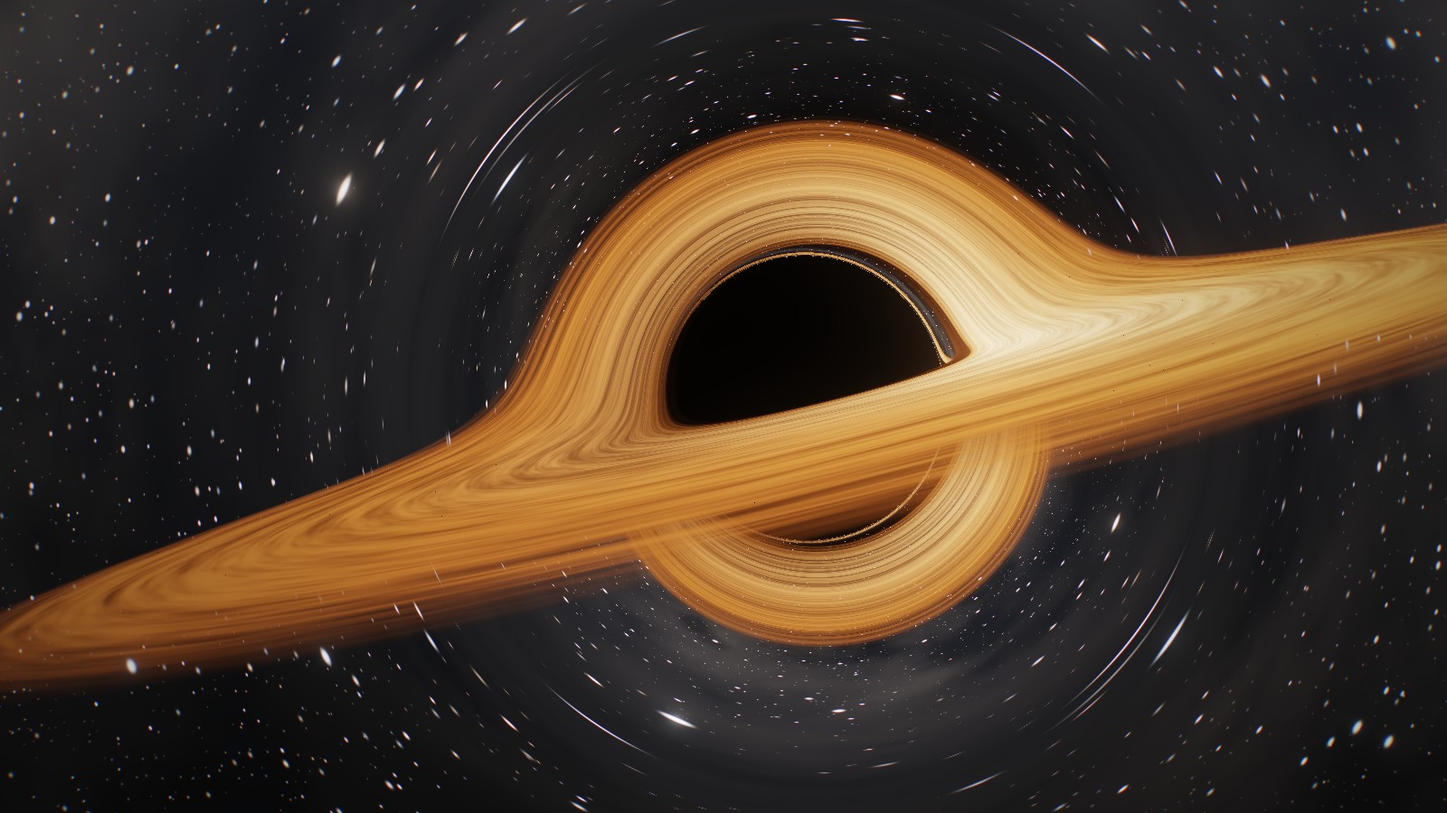
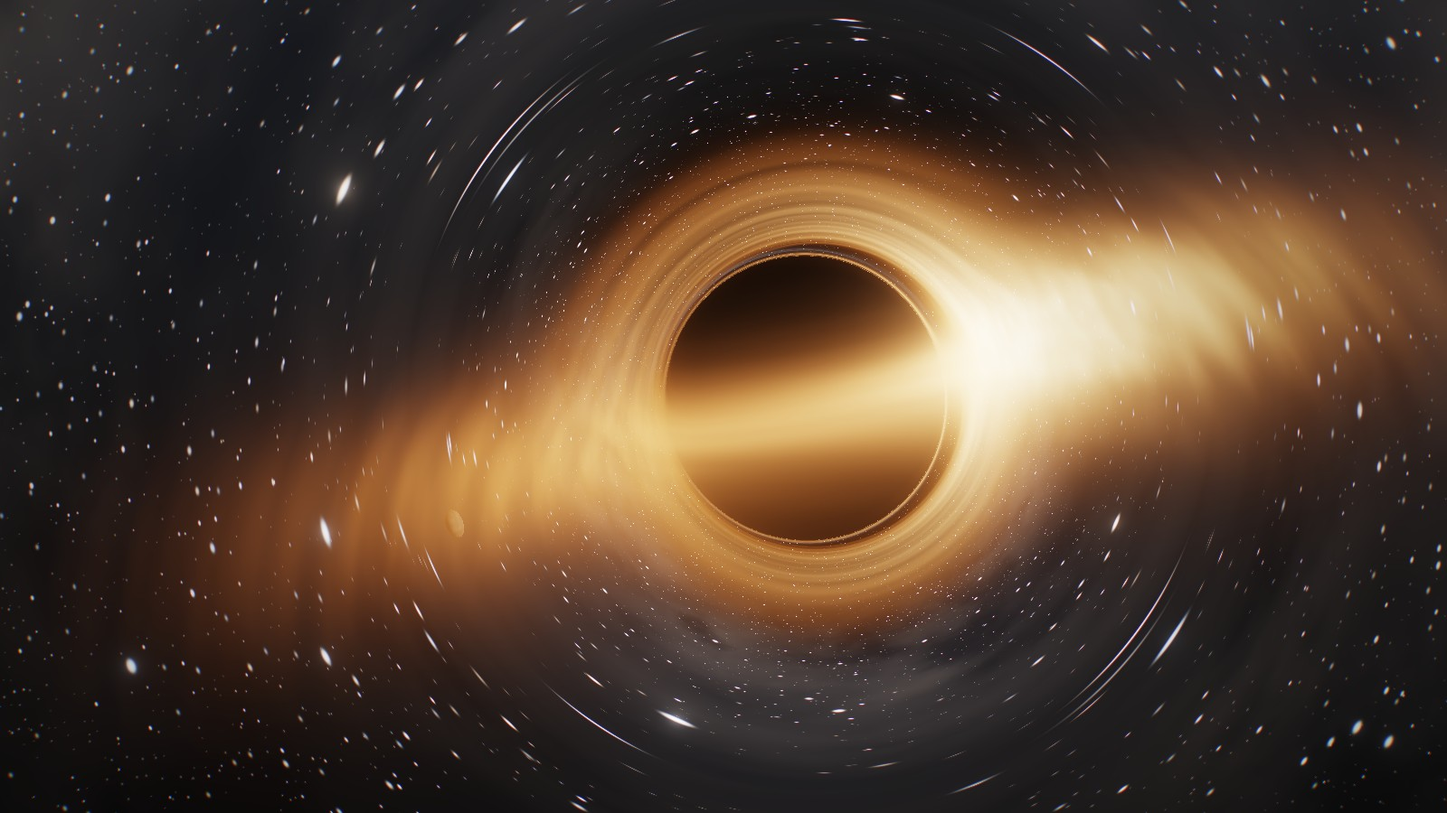
Thick, glowing (volumetric) accretion disk
- Disk model switch: thin sheet or thick volume. The thick flow has a
  Gaussian vertical profile with scale height H = (H/R)·R plus an
  optional wider haze, concentrated near the hole, and is integrated
  with radiative transfer along the Kerr rays (mostly optically thin,
  so the shadow reads as a dark dip in the glow). Plunging gas inside
  the ISCO keeps glowing faintly
- Steps shrink inside the gas, two stratified, interleaved-gradient
  jittered samples per step; larger step budget for gas and axis rays
- Quality-independent near-axis step limit (fixes artifacts at
  low/medium quality in face-on views); same rule in the inspector
- EHT view camera preset (17°, key 5); thick is the default (H/R 0.1)
- Field notes, README section and media

diff --git a/js/shaders.js b/js/shaders.js
@@ -53,6 +53,8 @@ uniform float uRCapture;    // rays inside this Boyer-Lindquist r are absorbed (
 uniform float uPhPro;       // prograde / retrograde circular photon orbits (equatorial)
 uniform float uPhRetro;
 uniform float uIsco;
+uniform float uThick;       // disk scale height H/R; 0 = infinitely thin sheet
+uniform float uHaze;        // weight of the broad, optically thin envelope
 
 uniform vec3  uObsBeta;     // observer velocity relative to a local static observer (units of c)
 uniform float uObsBeam;     // apply observer Doppler beaming to the image
@@ -118,42 +120,65 @@ float diskLayer(float r, float ang, float seed){
   return n * 0.78 + s * 0.22;
 }
 
-/* Emission (premultiplied rgb) + opacity of the thin disk at Boyer-Lindquist
-   radius r, azimuth phi. d is the (backward) ray direction in scene space,
-   b the photon's axial angular momentum p_phi, camE its energy measured by
-   the camera's zero-angular-momentum frame. */
-vec4 diskSample(float r, float phi, vec3 d, float b, float camE){
-  if(r < uDiskIn * 0.8 || r > uDiskOut) return vec4(0.0);
-  float x = (r - uDiskIn) / (uDiskOut - uDiskIn);
+float fbm3(vec3 p){
+  float s = 0.0, a = 0.5;
+  for(int i = 0; i < 3; i++){
+    s += a * vnoise(p);
+    p = p * 2.03 + vec3(3.1, 1.7, 5.3);
+    a *= 0.5;
+  }
+  return s / 0.875;
+}
+/* cheaper turbulence for the volume, with a vertical coordinate zn = z/H */
+float diskLayerV(float r, float ang, float zn, float seed){
+  vec3 q = vec3(cos(ang) * 2.2, sin(ang) * 2.2, r * 2.4 + seed + zn * 0.9);
+  return fbm3(q + seed);
+}
 
-  float inner = smoothstep(uDiskIn * 0.82, uDiskIn * 1.06, r);
+/* Source function S (rgb) of disk gas at Boyer-Lindquist radius r and azimuth
+   phi, and its column density (out dens). zn = z/H is the height in scale
+   heights (volume only). b is the photon's axial angular momentum p_phi, camE
+   its energy in the camera's zero-angular-momentum frame. */
+vec3 diskSource(float r, float phi, float zn, float b, float camE, bool thick, out float dens){
+  dens = 0.0;
+  float rIn = uDiskIn;
+  if(r > uDiskOut || (!thick && r < rIn * 0.8) || (thick && r < uRCapture)) return vec3(0.0);
+  float x = (r - rIn) / (uDiskOut - rIn);
   float outer = 1.0 - smoothstep(0.3, 1.0, x);
+  /* thin: sharp edge at the ISCO. thick: gas keeps glowing, fainter, as it plunges in */
+  float inner = thick ? (r >= rIn ? 1.0 : 0.6 * smoothstep(uRCapture, rIn, r))
+                      : smoothstep(rIn * 0.82, rIn * 1.06, r);
 
   /* Kerr circular orbit, sense s = uSpin relative to the hole's rotation:
-     Ω = s√M / (r^{3/2} + s a√M) */
-  float M = uDiskM, a = uDiskA, sqM = sqrt(M), r15 = r * sqrt(r);
+     Ω = s√M / (r^{3/2} + s a√M). Plunging gas keeps the ISCO's orbit (approx.) */
+  float rk = max(r, thick ? rIn : r);
+  float M = uDiskM, a = uDiskA, sqM = sqrt(M), r15 = rk * sqrt(rk);
   float omega = uSpin * sqM / (r15 + uSpin * a * sqM);
 
   /* flow-map style: two phase-shifted layers so differential shear never winds up */
   const float P = 140.0;
   float t1 = mod(uTime, P), t2 = mod(uTime + 0.5 * P, P);
   float w1 = 1.0 - abs(2.0 * t1 / P - 1.0);
-  float n = diskLayer(r, phi - omega * t1, 0.0) * w1 + diskLayer(r, phi - omega * t2, 7.31) * (1.0 - w1);
+  float n = thick
+    ? diskLayerV(r, phi - omega * t1, zn, 0.0) * w1 + diskLayerV(r, phi - omega * t2, zn, 7.31) * (1.0 - w1)
+    : diskLayer(r, phi - omega * t1, 0.0) * w1 + diskLayer(r, phi - omega * t2, 7.31) * (1.0 - w1);
   n = (n - 0.5) / sqrt(w1 * w1 + (1.0 - w1) * (1.0 - w1)) + 0.5;
 
   float tex = smoothstep(0.18, 0.82, n);
-  float dens = inner * outer * mix(1.0, tex * 1.7 + 0.04, uTurb);
+  dens = inner * outer * mix(1.0, tex * 1.7 + 0.04, uTurb);
+  /* hot, puffy flows are compact: most of the gas sits close to the hole */
+  if(thick) dens *= pow(rIn / max(r, rIn), 1.5);
 
   /* Novikov-Thorne-like temperature profile, normalised to peak = 1 */
-  float rr = max(r / uDiskIn, 1.0001);
+  float rr = max(r / rIn, 1.0001);
   float f = pow(rr, -0.75) * pow(1.0 - sqrt(1.0 / rr), 0.25) / 0.488;
-  f = max(f, 0.18 * inner);
+  f = r < rIn ? 0.55 : max(f, 0.18 * inner);
 
   /* Exact frequency ratio g = E_camera / E_emitted, split into
        gravity + frame dragging (camera ZAMO vs. emitter ZAMO) and
        Doppler (emitter ZAMO vs. orbiting gas), so each can be dialled. */
-  float rad = r15 - 3.0 * M * sqrt(r) + 2.0 * uSpin * a * sqM;
-  float ut = (r15 + uSpin * a * sqM) / (pow(r, 0.75) * sqrt(max(rad, 0.02 * r15)));
+  float rad = r15 - 3.0 * M * sqrt(rk) + 2.0 * uSpin * a * sqM;
+  float ut = (r15 + uSpin * a * sqM) / (pow(rk, 0.75) * sqrt(max(rad, 0.02 * r15)));
   float Eem = ut * (1.0 - omega * b);
   float Dl = r * r - 2.0 * M * r + a * a;
   float S2 = (r * r + a * a) * (r * r + a * a) - a * a * Dl;
@@ -162,11 +187,37 @@ vec4 diskSample(float r, float phi, vec3 d, float b, float camE){
   float g = clamp(mix(1.0, camE / Ezamo, uRedshift) * pow(max(Ezamo / Eem, 1e-3), uDoppler), 0.0, 12.0);
   float g4 = g * g * g * g;
 
-  float alpha = 1.0 - exp(-dens * uDiskOpacity / max(abs(d.y), 0.06));
   vec3 hue = uPalette > 0.5 ? blackbody(uDiskTemp * f * g) : cineRamp(f * g);
   float streak = mix(1.0, 0.3 + 1.2 * tex, uTurb);
-  float I = uDiskBright * (0.15 + f * f) * g4 * 2.2 * streak;
-  return vec4(hue * I * alpha, alpha);
+  return hue * uDiskBright * (0.15 + f * f) * g4 * 2.2 * streak;
+}
+
+/* Thin sheet: emission (premultiplied rgb) + opacity at the equatorial crossing.
+   d is the (backward) ray direction in scene space. */
+vec4 diskSample(float r, float phi, vec3 d, float b, float camE){
+  float dens;
+  vec3 S = diskSource(r, phi, 0.0, b, camE, false, dens);
+  float alpha = 1.0 - exp(-dens * uDiskOpacity / max(abs(d.y), 0.06));
+  return vec4(S * alpha, alpha);
+}
+
+/* Thick flow: scale height H = uThick · R. Vertical profile is a Gaussian
+   (plus an optional envelope 2× wider), normalised so a vertical column has
+   the same emission depth as the thin sheet. The gas is hot and mostly
+   optically thin: it absorbs only a fraction (THICK_ABSORB) of what it emits,
+   so the shadow shows through the glow. Returns emission and absorption for
+   a path element ds at (r, θ, φ). */
+const float THICK_ABSORB = 0.3;
+vec4 diskVolume(float r, float th, float ph, float ds, float b, float camE){
+  float Rc = sqrt(r * r + uA * uA) * sin(th), z = r * cos(th);
+  float H = uThick * max(Rc, uDiskIn * 0.6);
+  float zn = z / H;
+  float v = exp(-0.5 * zn * zn) + uHaze * 0.5 * exp(-0.125 * zn * zn);
+  if(v < 1e-3) return vec4(0.0);
+  float dens;
+  vec3 S = diskSource(r, ph, zn, b, camE, true, dens);
+  float dtau = uDiskOpacity * dens * v * ds / (2.5066 * H * (1.0 + uHaze));
+  return vec4(S * (1.0 - exp(-dtau)), 1.0 - exp(-dtau * THICK_ABSORB));
 }
 
 /* Equatorial reference grid: 1 r_s rings, 30° spokes, photon orbits, ISCO */
@@ -370,8 +421,16 @@ void main(){
   bool captured = false, escaped = false;
   vec3 cPrev = blToCart(X.x, X.y, X.z), dirOut = rd;
 
-  for(int i = 0; i < 1200; i++){
-    if(i >= uMaxSteps) break;
+  bool thick = uThick > 0.001 && uDiskOn > 0.5;
+  /* per-pixel offset of the volume samples along each step (interleaved gradient
+     noise): turns banding into a fine, even grain */
+  float jitter = fract(52.9829189 * fract(dot(gl_FragCoord.xy, vec2(0.06711056, 0.00583715))));
+  /* rays crossing the gas, or passing near the spin axis, need many short
+     steps; the extra budget is only spent by rays that need it */
+  int budget = uMaxSteps * (thick ? 3 : 1) + 256;
+
+  for(int i = 0; i < 3600; i++){
+    if(i >= budget) break;
     if(X.x < uRCapture){ captured = true; break; }
 
     vec3 X0 = X;
@@ -381,7 +440,20 @@ void main(){
     float rdot = (X.x * X.x - 2.0 * M * X.x + a2) / (X.x * X.x + a2 * cos(X.y) * cos(X.y)) * Pm.x;
     float h = min(clamp(uStepK * 1.6 * X.x, 0.004, 4.0),
                   0.25 * max(X.x - uRCapture + 0.02, 1e-4) / max(abs(rdot), 1e-6));
-    h *= -clamp(sin(X.y) * 5.0, 0.005, 1.0);
+    if(thick){
+      /* inside (or near) the gas, step a fraction of a scale height */
+      float Rc = sqrt(X.x * X.x + a2) * sin(X.y), zc = X.x * cos(X.y);
+      float Hc = uThick * max(Rc, uDiskIn * 0.6);
+      if(Rc < uDiskOut * 1.1 && abs(zc) < Hc * (3.5 + uHaze * 4.0)) h = min(h, max(0.4 * Hc, 0.006));
+    }
+    if(b != 0.0){
+      /* near the spin axis the θ equation stiffens (b²/sin³θ): limit the angular
+         change per step to a fraction of sinθ, whatever the quality setting */
+      float snA = max(sin(X.y), 1e-4);
+      float w = sqrt(Pm.y * Pm.y + b * b / (snA * snA));
+      h = min(h, 0.3 * snA * (X.x * X.x + a2 * cos(X.y) * cos(X.y)) / max(w, 1e-6));
+    }
+    h = -h;
     kerrStep(X, Pm, b, q, h);
     if(!(X.x > 0.0) || !(abs(Pm.x) < 1e8) || !(abs(Pm.y) < 1e8) || !(abs(X.z) < 1e6)){ captured = true; break; }
     vec3 c1 = blToCart(X.x, X.y, X.z);
@@ -407,8 +479,18 @@ void main(){
     if(tDisk <= 1.0 && tDisk < tPlan){
       float rh = mix(X0.x, X.x, tDisk), ph = mix(X0.z, X.z, tDisk);
       if(uGuides > 0.5) col += (1.0 - alpha * 0.8) * guides(rh, ph, rCam);
-      if(uDiskOn > 0.5){
+      if(uDiskOn > 0.5 && !thick){
         vec4 sm = diskSample(rh, ph, dirOut, b, camE);
+        col += (1.0 - alpha) * sm.rgb;
+        alpha += (1.0 - alpha) * sm.a;
+      }
+    }
+    if(thick){
+      /* two stratified samples per step, each covering half of it */
+      float span = min(1.0, tPlan), dsh = 0.5 * length(seg) * span;
+      for(int k = 0; k < 2; k++){
+        float ts = (float(k) + jitter) * 0.5 * span;
+        vec4 sm = diskVolume(mix(X0.x, X.x, ts), mix(X0.y, X.y, ts), mix(X0.z, X.z, ts), dsh, b, camE);
         col += (1.0 - alpha) * sm.rgb;
         alpha += (1.0 - alpha) * sm.a;
       }

diff --git a/index.html b/index.html
@@ -107,20 +107,22 @@
         <p>Gas orbits at the Keplerian rate Ω = √(GM/r³), so the inner disk spins faster. Inside the innermost stable circular orbit (ISCO) no stable orbit exists and gas plunges in, so the disk has an inner edge.</p>
         <h4><span>05</span>Spin · Kerr black holes</h4>
         <p>Real black holes spin. Spin drags spacetime around with it, and the effect gets stronger close in. Inside the <em>ergosphere</em> (out to 1 r<sub>s</sub> at the equator) nothing can stay still relative to the distant stars; a static camera there is swept along, shown as <em>ERGO</em> in the telemetry. Spin shrinks the horizon (r₊ = 0.53 r<sub>s</sub> at a/M = 0.998) and lets gas orbiting with the spin come much closer: the ISCO moves from 3 r<sub>s</sub> down to 0.62 r<sub>s</sub>. Light moving with the rotation can skim closer than light moving against it, so the shadow is flattened on the side where the hole turns toward you. That is the "D" shape. Turn on the grid background and slide <em>Spin</em> to watch it form.</p>
-        <h4><span>06</span>Doppler beaming</h4>
+        <h4><span>06</span>Thick, glowing disk</h4>
+        <p>Real accretion flows have depth. Hot, inefficient ones like the gas around M87* puff up into a thick, mostly transparent torus. The <em>Thick</em> disk model traces each ray through that glowing gas instead of stopping at a sheet: it adds up light along the way and lets some of the background through. Gas inside the ISCO keeps glowing faintly as it plunges toward the horizon. This produces the hazy ring of the Event Horizon Telescope images, where the shadow is a dark dip in the glow rather than a hard black disk. Try <em>EHT view</em> (key 5) with a thickness of 0.3.</p>
+        <h4><span>07</span>Doppler beaming</h4>
         <p>Gas near the ISCO moves at about half the speed of light. The side moving toward you looks brighter and bluer (intensity ∝ g⁴), the receding side dimmer and redder. Try the <em>Blackbody</em> palette at 100% Doppler.</p>
-        <h4><span>07</span>Gravitational redshift & time dilation</h4>
+        <h4><span>08</span>Gravitational redshift & time dilation</h4>
         <p>Light climbing out of the well loses energy by √(1 − r<sub>s</sub>/r). Clocks near the hole run slow by the same factor. The telemetry shows your camera's clock rate and the orbiting probe's (√(1 − 1.5 r<sub>s</sub>/r) for a circular orbit).</p>
-        <h4><span>08</span>Falling in · press D</h4>
+        <h4><span>09</span>Falling in · press D</h4>
         <p>Released from its orbit, the probe follows a real free-fall path. Its own clock (<em>PROBE τ</em>) reaches the horizon in a finite time. Seen from outside, it slows, reddens and fades, and never quite crosses: its light takes ever longer to climb out. Tidal forces stretch it along the fall direction. The <em>TIDAL · 2 m</em> readout gives the real stretching force on a 2 m body. It is lethal near a 10 M☉ black hole, but barely noticeable at the horizon of a supermassive one.</p>
-        <h4><span>09</span>Ray inspector · press T</h4>
+        <h4><span>10</span>Ray inspector · press T</h4>
         <p>Click any pixel to follow its light ray backwards. A light ray around a non-rotating black hole always stays in one plane, so the diagram shows its whole path. It tells you whether the ray hit the disk (and which image: primary, secondary, or deeper in the photon ring), the probe or the sky, or fell into the horizon. The deciding number is the impact parameter <em>b</em>: rays with b below b꜀ ≈ 2.6 r<sub>s</sub> are captured.</p>
-        <h4><span>10</span>Observer modes · press O</h4>
+        <h4><span>11</span>Observer modes · press O</h4>
         <p>What you see depends on how you move. A <em>static</em> camera hovers in place. An <em>orbiting</em> one rides a circular orbit, at 0.5c at the ISCO. A <em>free-falling</em> one drops from rest far away and reaches about 0.88c near the horizon. <em>Boost</em> moves toward the view at a speed you choose. Motion causes aberration: light from ahead bunches into a smaller patch of sky, so the hole looks smaller and farther away, and the forward view is brighter and bluer (intensity ∝ D⁴). A falling observer near the horizon sees a much smaller shadow than one hovering at the same radius.</p>
-        <h4><span>11</span>Mass scale & Hawking radiation</h4>
+        <h4><span>12</span>Mass scale & Hawking radiation</h4>
         <p>Quantum effects make every black hole glow faintly, at the Hawking temperature T = ħc³/8πGMk<sub>B</sub>. Smaller holes are hotter. A 10¹² kg primordial hole is about 10¹¹ K. A stellar one is a few billionths of a kelvin, colder than the cosmic microwave background, so it absorbs more than it radiates and slowly grows. Evaporation time scales as M³. Otherwise the picture is scale-free: it is identical for a 10 M☉ black hole and M87*, but one r<sub>s</sub>/c is 0.1 ms for the first and 18 hours for the second.</p>
-        <h4><span>12</span>Keys</h4>
-        <p class="keys"><b>Drag</b> orbit · <b>Shift/RMB drag</b> pan · <b>Wheel</b> zoom · <b>←↑→↓</b> orbit · <b>Space</b> play/pause · <b>[ ]</b> rate · <b>.</b> step · <b>0</b> reset time · <b>1–4</b> camera presets · <b>G</b> guides · <b>D</b> release/recall probe · <b>T</b> ray inspector · <b>O</b> observer mode · <b>P</b> snapshot · <b>R</b> record · <b>H</b> hide UI · <b>F</b> fullscreen</p>
+        <h4><span>13</span>Keys</h4>
+        <p class="keys"><b>Drag</b> orbit · <b>Shift/RMB drag</b> pan · <b>Wheel</b> zoom · <b>←↑→↓</b> orbit · <b>Space</b> play/pause · <b>[ ]</b> rate · <b>.</b> step · <b>0</b> reset time · <b>1–5</b> camera presets · <b>G</b> guides · <b>D</b> release/recall probe · <b>T</b> ray inspector · <b>O</b> observer mode · <b>P</b> snapshot · <b>R</b> record · <b>H</b> hide UI · <b>F</b> fullscreen</p>
       </div>
     </div>
   </div>

diff --git a/js/main.js b/js/main.js
@@ -32,6 +32,7 @@ const PRESETS = {
   gargantua: { dist: 19,  yaw: 0.0,  pitch: 0.07,  roll: -14, shiftX: 0.14, shiftY: 0.02, fov: 42 },
   edge:      { dist: 17,  yaw: 0.0,  pitch: 0.03,  roll: 0,   shiftX: 0,    shiftY: 0,    fov: 50 },
   top:       { dist: 24,  yaw: 0.0,  pitch: 1.52,  roll: 0,   shiftX: 0,    shiftY: 0,    fov: 55 },
+  eht:       { dist: 40,  yaw: 0.0,  pitch: 1.274, roll: 0,   shiftX: 0,    shiftY: 0,    fov: 16 },
   close:     { dist: 4.2, yaw: 0.5,  pitch: 0.16,  roll: -6,  shiftX: 0,    shiftY: 0,    fov: 80 },
 };
 
@@ -39,7 +40,7 @@ const P = {
   speed: 1, playing: true, mass: 'gargantua',
   planetOn: true, planetR: 9, planetInc: 10, planetSize: 0.24, infallL: 0.6, tidal: true,
   spinA: 0.6, gravity: 1, redshift: true, doppler: 0.35, sky: 'stars', stars: 1, guides: false,
-  diskOn: true, diskIsco: true, palette: 'cinematic', diskIn: 3, diskOut: 13, diskTemp: 6500, diskBright: 0.55,
+  diskOn: true, diskModel: 'thick', diskH: 0.1, haze: 0.25, diskIsco: true, palette: 'cinematic', diskIn: 3, diskOut: 13, diskTemp: 6500, diskBright: 0.55,
   turb: 0.7, opacity: 1.4, spin: 1,
   fov: 42, roll: -14, autoOrbit: false, orbitSpeed: 0.04,
   observer: 'static', obsBeta: 0.5, obsMove: true, obsBeam: true,
@@ -509,6 +510,8 @@ function render(){
   u1f(pr, 'uPhPro', kerrPhoton(aS, 1));
   u1f(pr, 'uPhRetro', kerrPhoton(aS, -1));
   u1f(pr, 'uIsco', kerrIsco(aS, P.spin));
+  u1f(pr, 'uThick', P.diskModel === 'thick' ? P.diskH : 0);
+  u1f(pr, 'uHaze', P.haze);
   u1f(pr, 'uEscape', Math.max(rCam * 1.05 + 2, P.diskOut * 1.4, 28));
   u1f(pr, 'uStepK', q.k);
   u1i(pr, 'uMaxSteps', q.steps);
@@ -617,6 +620,11 @@ const SECTIONS = [
   ]},
   { id: 'disk', title: 'Accretion Disk', items: [
     { t: 'toggle', k: 'diskOn', label: 'Accretion disk' },
+    { t: 'seg', k: 'diskModel', label: 'Disk model', opts: [['thin', 'THIN SHEET'], ['thick', 'THICK · VOLUMETRIC']], dep: 'diskOn',
+      hint: 'Thick traces light through glowing, partly transparent gas instead of a flat sheet. Costs more GPU time.' },
+    { t: 'range', k: 'diskH', label: 'Thickness H/R', min: 0.02, max: 0.5, step: 0.01, fmt: v => v.toFixed(2), dep: () => P.diskOn && P.diskModel === 'thick',
+      hint: 'Scale height over radius. Hot, inefficient flows like the one around M87* are puffy (0.3+); bright quasar disks are thin.' },
+    { t: 'range', k: 'haze', label: 'Haze', min: 0, max: 1, step: 0.01, fmt: pct, dep: () => P.diskOn && P.diskModel === 'thick' },
     { t: 'seg', k: 'palette', label: 'Palette', opts: [['cinematic', 'CINEMATIC'], ['blackbody', 'BLACKBODY']], dep: 'diskOn' },
     { t: 'range', k: 'diskTemp', label: 'Peak temperature', min: 1500, max: 30000, step: 100, fmt: v => Math.round(v) + ' K', dep: 'diskOn' },
     { t: 'toggle', k: 'diskIsco', label: 'Inner edge at ISCO', dep: 'diskOn' },
@@ -630,7 +638,8 @@ const SECTIONS = [
   ]},
   { id: 'cam', title: 'Camera', items: [
     { t: 'buttons', items: [['Gargantua', () => applyPreset('gargantua')], ['Edge-on', () => applyPreset('edge')],
-                            ['Polar', () => applyPreset('top')], ['Close pass', () => applyPreset('close')]] },
+                            ['Polar', () => applyPreset('top')], ['Close pass', () => applyPreset('close')],
+                            ['EHT view · 17°', () => applyPreset('eht'), 'wide']] },
     { t: 'range', k: 'fov', label: 'Field of view', min: 20, max: 120, step: 1, fmt: v => v + '°' },
     { t: 'range', k: 'roll', label: 'Roll', min: -60, max: 60, step: 1, fmt: v => v + '°' },
     { t: 'seg', k: 'observer', label: 'Observer', opts: [['static', 'STATIC'], ['orbit', 'ORBIT'], ['fall', 'FREE FALL'], ['boost', 'BOOST']],
@@ -979,6 +988,7 @@ addEventListener('keydown', e => {
     case '2': applyPreset('edge'); break;
     case '3': applyPreset('top'); break;
     case '4': applyPreset('close'); break;
+    case '5': applyPreset('eht'); break;
     case 'g': P.guides = !P.guides; syncUI(); break;
     case 'd': toggleProbe(); break;
     case 't': setInspectMode(!insp.mode); break;
@@ -1157,8 +1167,12 @@ function traceRay(px, py){
     const y0 = y;
     // same adaptive rule as the shader, at a finer base step
     const rdot = (y[0] * y[0] - 2 * M * y[0] + a * a) / (y[0] * y[0] + a * a * Math.cos(y[1]) ** 2) * y[3];
-    const h = -Math.min(Math.min(Math.max(0.012 * y[0], 0.002), 1), 0.25 * Math.max(y[0] - capture + 0.02, 1e-4) / Math.max(Math.abs(rdot), 1e-6))
-              * Math.min(1, Math.max(0.005, Math.sin(y[1]) * 5));
+    let h = Math.min(Math.min(Math.max(0.012 * y[0], 0.002), 1), 0.25 * Math.max(y[0] - capture + 0.02, 1e-4) / Math.max(Math.abs(rdot), 1e-6));
+    if(Lz !== 0){
+      const snA = Math.max(Math.sin(y[1]), 1e-4), w = Math.sqrt(y[4] * y[4] + Lz * Lz / (snA * snA));
+      h = Math.min(h, 0.3 * snA * (y[0] * y[0] + a * a * Math.cos(y[1]) ** 2) / Math.max(w, 1e-6));
+    }
+    h = -h;
     y = kerrStep(y, Lz, q, h, M, a);
     if(!(y[0] > 0) || !y.every(Number.isFinite) || Math.abs(y[3]) > 1e8){ outcome = 'horizon'; break; }
     const c1 = blToCart(y[0], y[1], y[2], a), seg = sub(c1, cPrev), sl = Math.hypot(seg[0], seg[1], seg[2]);

diff --git a/README.md b/README.md
@@ -35,6 +35,8 @@ Then open **http://localhost:5179**. Opening `index.html` directly also works. A
 
 ## `01` &nbsp;OBSERVATIONS
 
+<sub>Rendered with the thin-sheet disk model, which shows the lensing most clearly.</sub>
+
 <table>
   <tr>
     <td width="50%"><img src="docs/media/disk-flow.gif" alt="Accretion disk rotating over time" width="100%"></td>
@@ -84,6 +86,26 @@ Then open **http://localhost:5179**. Opening `index.html` directly also works. A
 <br>
 
 ## `02` &nbsp;EXPERIMENTS
+
+### Thicken the disk &nbsp;<sub><code>DISK MODEL</code></sub>
+
+<table>
+  <tr>
+    <td width="50%"><img src="docs/media/disk-thin.jpg" alt="Thin-sheet disk" width="100%"></td>
+    <td width="50%"><img src="docs/media/disk-thick.jpg" alt="Thick volumetric disk: a glowing, hazy torus" width="100%"></td>
+  </tr>
+  <tr>
+    <td><sub><code>THIN SHEET</code> &nbsp;ZERO THICKNESS · CRISP LENSED IMAGES</sub></td>
+    <td><sub><code>THICK · H/R 0.10</code> &nbsp;GLOWING GAS · HAZE · PARTLY TRANSPARENT</sub></td>
+  </tr>
+</table>
+
+<p align="center">
+  <img src="docs/media/eht-view.jpg" alt="Nearly face-on view of a thick, hot flow around a spinning hole: a hazy ring around a dark depression" width="100%">
+</p>
+<p align="center"><sub><code>EHT VIEW · 17°</code> &nbsp;a/M 0.94 · H/R 0.30 · THE SHADOW AS A DARK DIP IN THE GLOW</sub></p>
+
+The thick model replaces the sheet with a volume of hot gas. Its density falls off as a Gaussian above and below the plane, with scale height H = (H/R)·R, plus an optional broader **haze**. Each ray integrates emission and absorption step by step through the Kerr metric. The gas is mostly optically thin, so it glows more than it blocks, and the shadow becomes a dark depression in the light instead of a hard edge. Gas inside the ISCO keeps glowing as it plunges in, which is why the Event Horizon Telescope images look like a hazy ring. **EHT view** (key 5) looks down at 17°, the angle we see M87* from.
 
 ### Spin the hole &nbsp;<sub><code>SPIN a/M</code></sub>
 
@@ -203,6 +225,15 @@ Without spin, light can circle the hole at $r = 1.5\,r_s$. With spin the equator
 A thin disk on Kerr circular orbits, $\Omega = \pm\sqrt{M}/(r^{3/2} \pm a\sqrt{M})$, with a Novikov–Thorne-like temperature profile and its inner edge locked to the ISCO (Bardeen–Press–Teukolsky): 3 rₛ without spin, 0.62 rₛ prograde at a/M = 0.998. A two-phase flow-map keeps differential shear from winding the texture up.
 
 </td></tr>
+<tr><td><code>THICK DISK</code></td><td>
+
+Density $n(R)\,e^{-z^2/2H^2}$ with $H = (H/R)\,R$, plus an envelope $2\times$ wider for haze, normalised so a vertical column matches the thin sheet's optical depth. Along each step the ray accumulates
+
+$$I \mathrel{+}= T\,S\,(1 - e^{-\Delta\tau}), \qquad T \mathrel{*}= e^{-k\,\Delta\tau}, \quad k = 0.3$$
+
+where $S$ is the gas's (redshifted) source function and $T$ the transmittance. The gas absorbs less than it emits, which approximates hot, optically thin flow. Steps shrink to $0.4H$ inside the gas, with two jittered samples per step.
+
+</td></tr>
 <tr><td><code>DOPPLER · REDSHIFT</code></td><td>
 
 The redshift is exact for each ray, using its conserved $b$. It splits into gravity plus frame dragging (camera frame vs. the emitter's local frame) and Doppler (local frame vs. orbiting gas). Observed intensity scales as $g^4$:
@@ -252,7 +283,7 @@ Every astrophysical hole is far colder than the 2.7 K microwave background. The 
 | `shift` / `RMB` drag | pan (off-axis) | | `[` `]` | time rate − / + |
 | `wheel` / pinch | zoom | | `,` `.` | step back / forward |
 | `← ↑ → ↓` | orbit | | `0` | reset time |
-| `+` `−` | dolly | | `1`–`4` | camera presets |
+| `+` `−` | dolly | | `1`–`5` | camera presets (5 = EHT view) |
 | double-click | Gargantua preset | | `G` | equatorial guides |
 | click *(inspect mode)* | trace that pixel's ray | | `D` | release / recall probe |
 | | | | `T` | ray inspector |
@@ -277,7 +308,9 @@ Every astrophysical hole is far colder than the 2.7 K microwave background. The 
 | | Doppler beaming | 0 – 100% | Scales the disk velocity used for beaming |
 | | Gravitational redshift | on / off | |
 | | Background | Stars · Grid · Void | |
-| Accretion disk | Inner edge at ISCO | on / off | Follows the spin and the rotation sense |
+| Accretion disk | Disk model | Thin sheet · Thick volumetric | Thick is the default; costs more GPU |
+| | Thickness H/R, haze | 0.02 – 0.5, 0 – 100% | Thick model only |
+| | Inner edge at ISCO | on / off | Follows the spin and the rotation sense |
 | | Palette | Cinematic · Blackbody | Blackbody also sets Doppler to 100% |
 | | Temperature, inner/outer edge, luminosity, optical depth, turbulence, rotation | | |
 | Camera | Observer | Static · Orbit · Free fall · Boost | Aberration and Doppler from the camera's own motion |
@@ -324,7 +357,7 @@ EventHorizon.snapshot();
 ```
 index.html        HUD markup, field notes
 css/style.css     interface
-js/shaders.js     Kerr geodesic tracer, disk, sky, bloom, tone mapping (GLSL ES 3.0)
+js/shaders.js     Kerr geodesic tracer, thin and volumetric disk, sky, bloom, tone mapping (GLSL ES 3.0)
 js/main.js        render graph, Kerr helpers, camera, observer modes, probe, ray inspector, UI, export
 docs/             README media
 ```
